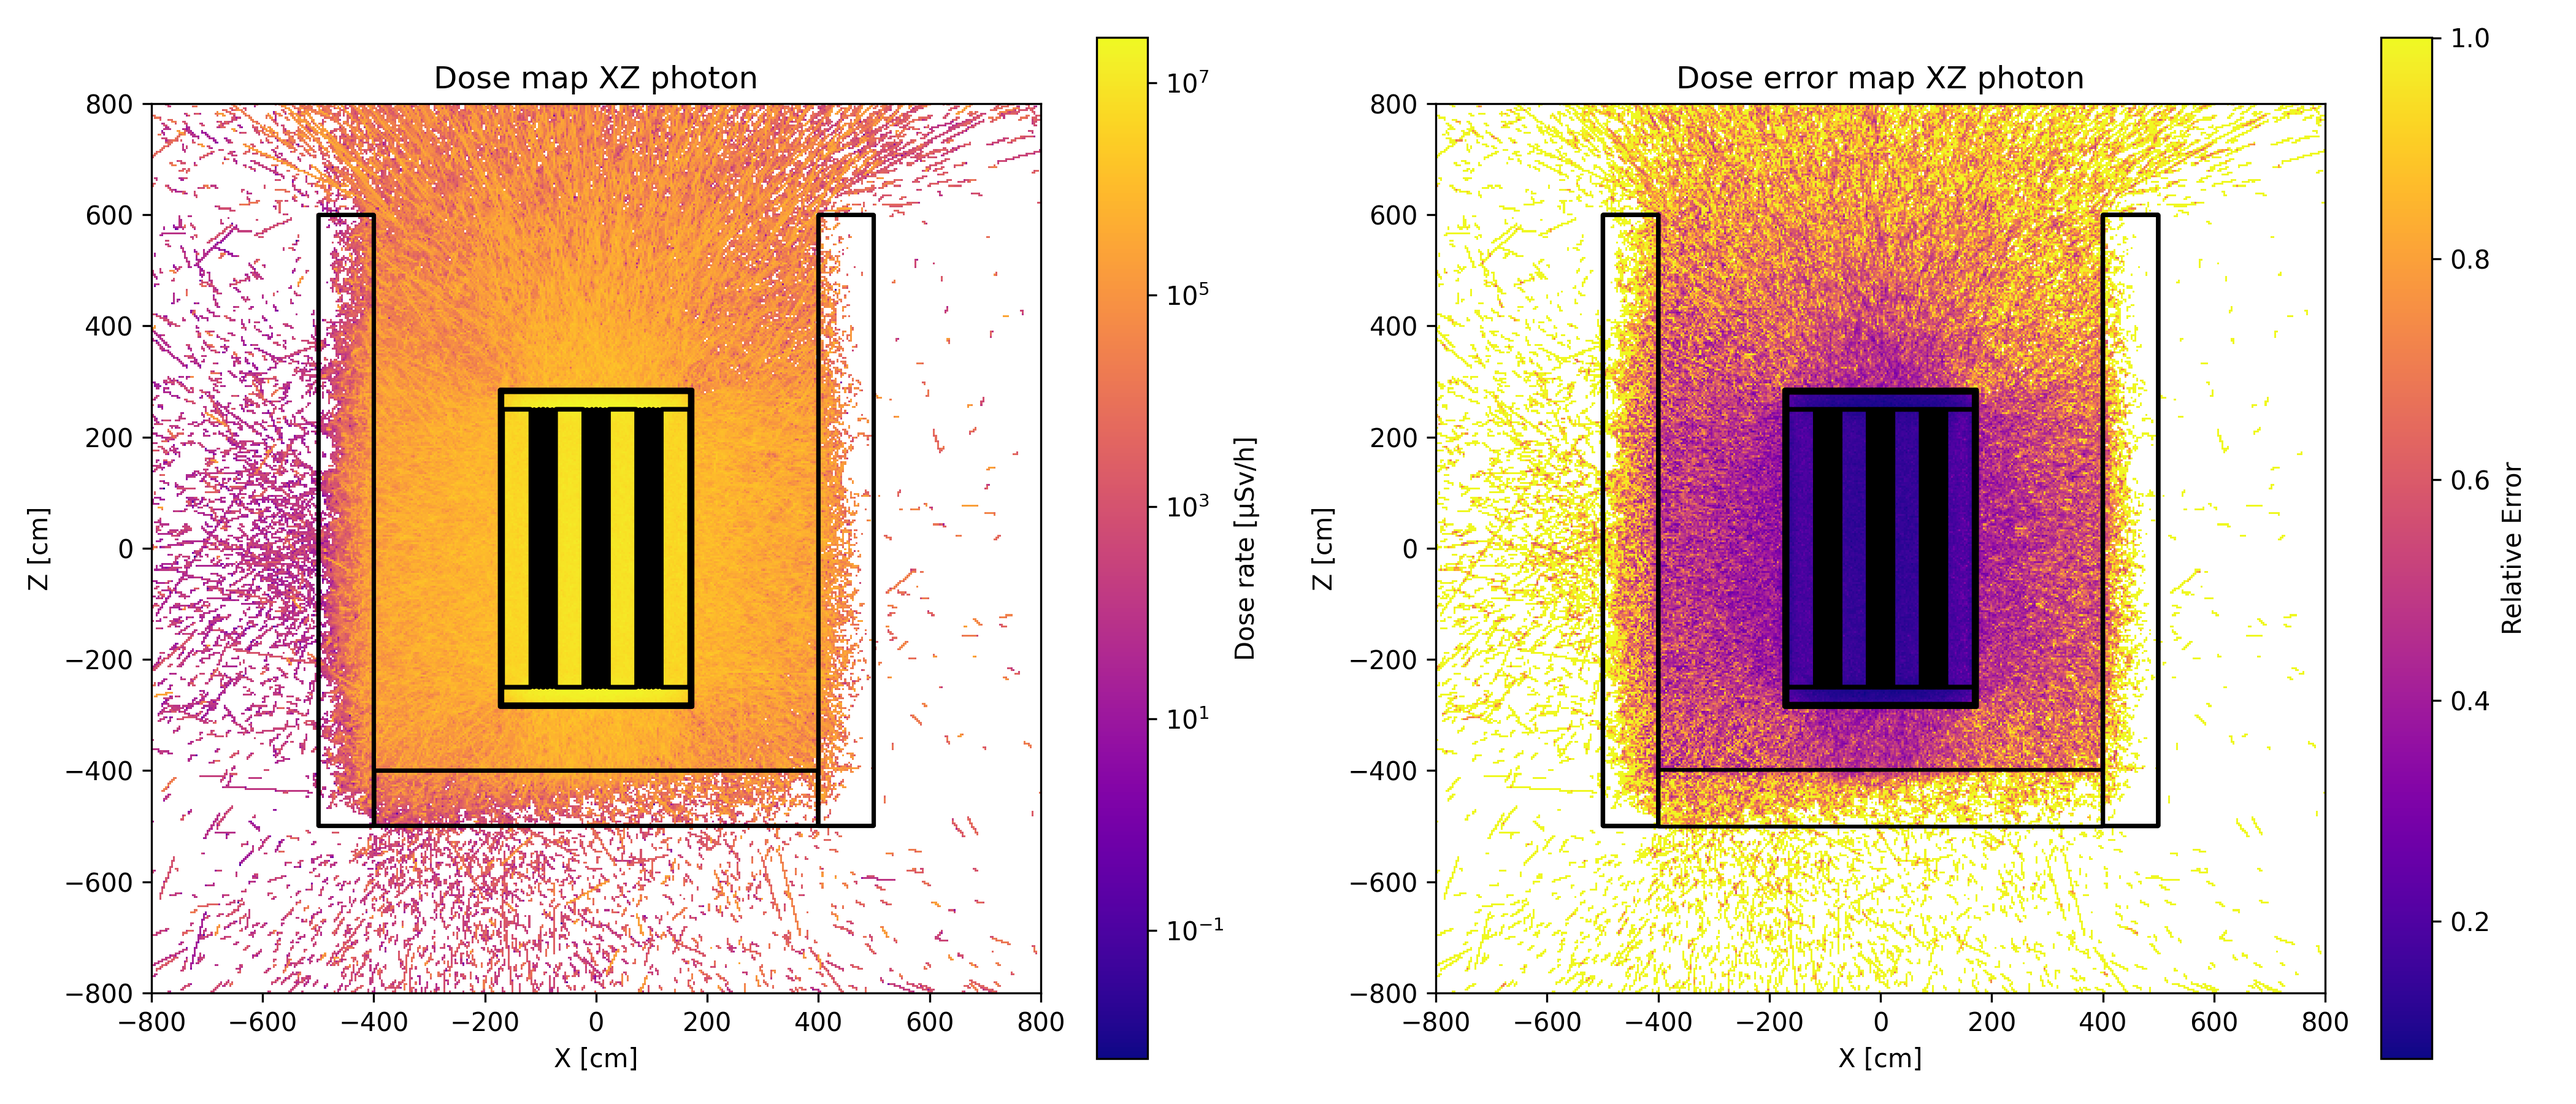
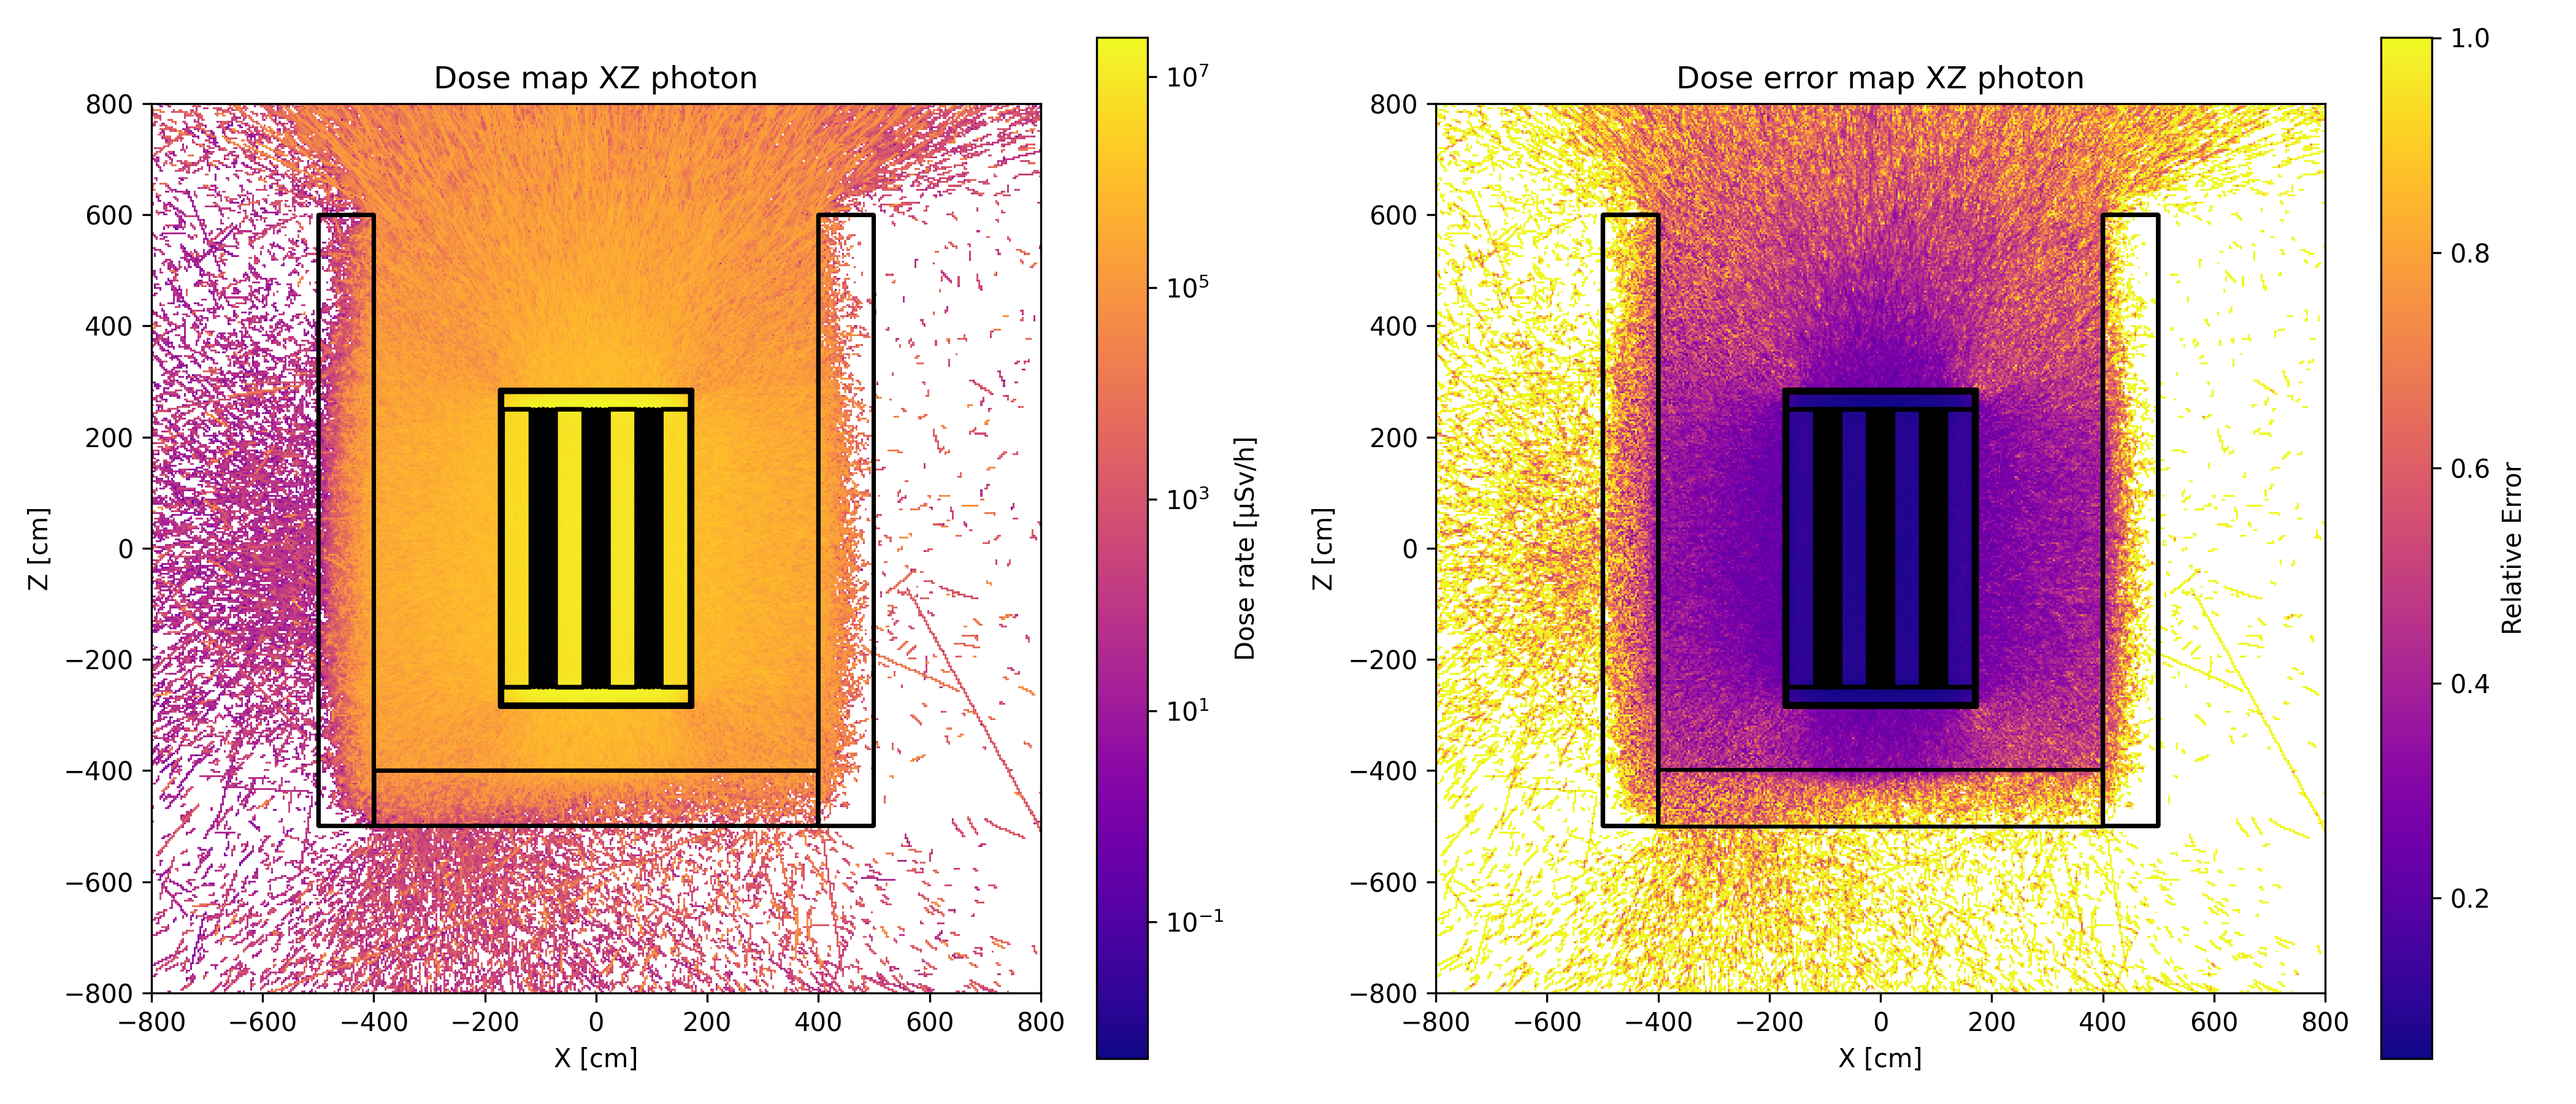
feat:put_dose_geom_method

diff --git a/src/utils/post_preocessing/post_processing.py b/src/utils/post_preocessing/post_processing.py
@@ -528,26 +528,21 @@ class Pulse_height_tally:
 class mesh_tally_data:
     def __init__(self, statepoint, name_mesh_tally, plane):
         self.mesh_tally = statepoint.get_tally(name=name_mesh_tally)
-        self.plane = plane
+        self.plane = plane.lower()
         self.bin_number = np.sqrt(self.mesh_tally.num_bins).astype(int)
-        if plane.lower() == "xy":
-            mesh_filter = self.mesh_tally.find_filter(openmc.MeshFilter)
-            mesh = mesh_filter.mesh
-            self.lower_left = mesh.lower_left[:-1]
-            self.upper_right = mesh.upper_right[:-1]
-        elif plane.lower() == "xz":
-            mesh_filter = self.mesh_tally.find_filter(openmc.MeshFilter)
-            mesh = mesh_filter.mesh
-            self.lower_left = (mesh.lower_left[0], mesh.lower_left[2])
-            self.upper_right = (mesh.upper_right[0], mesh.upper_right[2])
-        elif plane.lower() == "yz":
-            mesh_filter = self.mesh_tally.find_filter(openmc.MeshFilter)
-            mesh = mesh_filter.mesh
-            self.lower_left = (mesh.lower_left[1], mesh.lower_left[2])
-            self.upper_right = (mesh.upper_right[1], mesh.upper_right[2])
+        self.mesh = self.mesh_tally.find_filter(openmc.MeshFilter).mesh
+        if self.plane == "xy":
+            self.lower_left = self.mesh.lower_left[:-1]
+            self.upper_right = self.mesh.upper_right[:-1]
+        elif self.plane == "xz":
+            self.lower_left = (self.mesh.lower_left[0], self.mesh.lower_left[2])
+            self.upper_right = (self.mesh.upper_right[0], self.mesh.upper_right[2])
+        elif self.plane == "yz":
+            self.lower_left = (self.mesh.lower_left[1], self.mesh.lower_left[2])
+            self.upper_right = (self.mesh.upper_right[1], self.mesh.upper_right[2])
 
     @property
-    def get_coordinates(self):
+    def mesh_coordinates(self):
         """
         Generate coordinates for mesh bins.
         
@@ -571,12 +566,47 @@ class mesh_tally_data:
         return coords
     
     @property
-    def get_flux_data(self):
+    def mesh_tally_value(self):
         return self.mesh_tally.mean.reshape((self.bin_number, self.bin_number))
 
     @property
-    def get_flux_error(self):
+    def mesh_tally_error(self):
         return self.mesh_tally.std_dev.reshape((self.bin_number, self.bin_number))
+
+    @property
+    def voxel_volume(self,
+                     coord_value: float = 0.0,
+                     thickness: float = 1.0):
+        """
+        Get the volumes of the mesh bins in the specified plane.
+
+        Parameters:
+            plane (str): Plane to create the mesh in ('xy', 'xz', or 'yz').
+            bin_number (int): Number of bins in each direction.
+            lower_left (tuple): Lower left corner of the mesh (2D).
+            upper_right (tuple): Upper right corner of the mesh (2D).
+            coord_value (float): Coordinate value for the orthogonal axis.
+            thickness (float): Thickness along the orthogonal axis.
+
+        Returns:
+            np.ndarray: Array of volumes for each mesh bin.
+        """
+        mesh = openmc.RegularMesh()
+        if self.plane == "xy":
+            mesh.dimension = [self.bin_number, self.bin_number, 1]
+            mesh.lower_left = (self.lower_left[0], self.lower_left[1], coord_value - thickness / 2)
+            mesh.upper_right = (self.upper_right[0], self.upper_right[1], coord_value + thickness / 2)
+        elif self.plane == "xz":
+            mesh.dimension = [self.bin_number, 1, self.bin_number]
+            mesh.lower_left = (self.lower_left[0], coord_value - thickness / 2, self.lower_left[1])
+            mesh.upper_right = (self.upper_right[0], coord_value + thickness / 2, self.upper_right[1])
+        elif self.plane == "yz":
+            mesh.dimension = [1, self.bin_number, self.bin_number]
+            mesh.lower_left = (coord_value - thickness / 2, self.lower_left[0], self.lower_left[1])
+            mesh.upper_right = (coord_value + thickness / 2, self.upper_right[0], self.upper_right[1])
+        else:
+            raise ValueError("plane must be 'xy', 'xz', or 'yz'")
+        return mesh.volumes[0][0][0]
 
     def plot_flux(self, 
                   axis_one_index=None, 
@@ -588,8 +618,8 @@ class mesh_tally_data:
                   fig_name:str="flux_plot.png"):
 
         if x_lim is None:
-            x_lim = (self.get_coordinates[0][0], self.get_coordinates[0][-1])
-        coords = self.get_coordinates
+            x_lim = (self.mesh_coordinates[0][0], self.mesh_coordinates[0][-1])
+        coords = self.mesh_coordinates
         plane = self.plane
 
         if (geometrical_limit[0][0] is not None and geometrical_limit[0][1] is not None):
@@ -599,7 +629,7 @@ class mesh_tally_data:
 
 
         if axis_one_index is not None:
-            plt.errorbar(coords[0], self.get_flux_data[:, axis_one_index], yerr= self.get_flux_error[:, axis_one_index],
+            plt.errorbar(coords[0], self.mesh_tally_value[:, axis_one_index], yerr= self.mesh_tally_error[:, axis_one_index],
                  fmt='o-', color='blue', ecolor='red', capsize=3, markersize=2,
                  label='Flux values')
             plt.xlabel(f'{plane[1].upper()} [cm]')
@@ -622,7 +652,7 @@ class mesh_tally_data:
             plt.show()
 
         if axis_two_index is not None:
-            plt.errorbar(coords[0], self.get_flux_data[axis_two_index, :], yerr= self.get_flux_error[axis_two_index, :],
+            plt.errorbar(coords[0], self.mesh_tally_value[axis_two_index, :], yerr= self.mesh_tally_error[axis_two_index, :],
                  fmt='o-', color='blue', ecolor='red', capsize=3, markersize=2,
                  label='Flux values')
             plt.xlabel(f'{plane[0].upper()} [cm]')
@@ -658,14 +688,14 @@ class mesh_tally_data:
                   geometrical_limit: tuple = [(None, None)],
                   log_scale: bool = True):
         if x_lim is None:
-            x_lim = (self.get_coordinates[0][0], self.get_coordinates[0][-1])
+            x_lim = (self.mesh_coordinates[0][0], self.mesh_coordinates[0][-1])
         if y_lim is None:
             y_lim = (0.1, None)
-        coords = self.get_coordinates
+        coords = self.mesh_coordinates
         plane = self.plane
 
-        dose_data = self.get_flux_data * particles_per_second * 1e-6 * 3600 / mesh_bin_volume
-        dose_error = self.get_flux_error * particles_per_second * 1e-6 * 3600 / mesh_bin_volume
+        dose_data = self.mesh_tally_value * particles_per_second * 1e-6 * 3600 / mesh_bin_volume
+        dose_error = self.mesh_tally_error * particles_per_second * 1e-6 * 3600 / mesh_bin_volume
 
         def plot_radiological_areas():
             for i in range(len(DOSE_AREAS_LIMIT) - 1):
@@ -738,6 +768,109 @@ class mesh_tally_data:
             f'Dose {particule_type} = f({plane[0].upper()}) at {plane[1].lower()}={coords[1][axis_two_index]:.2f} cm',
             )
 
+    def dose_over_geometry(self, model,
+                        cwd: Path = Path.cwd(), 
+                        name_mesh_tally:str = "flux_mesh_neutrons_dose_xy", 
+                        particule_type:str='neutrons',
+                        particles_per_second:int=1,
+                        plane_coord:float=0.0,
+                        zoom_x:tuple=(None, None),
+                        zoom_y:tuple=(None, None),
+                        pixels_model_geometry:int=1_000_000,
+                        radiological_area: bool = False,
+                        suffix_saving: str = "",
+                        color_by: str = "material",
+                        saving_figure:bool = True,
+                        plot_error:bool=False,
+                        dpi: int = 300):
+        """
+        Load and plot the dose mesh tally from the statepoint file.
+
+        Parameters:
+        - cwd: Path or directory where the mesh tally image will be saved.
+        - statepoint_file: The OpenMC statepoint file object containing the tally data.
+        - name_mesh_tally_saving: Name of the tally (default is "mesh_tally.png").
+        - bin_number: Number of bins for the mesh tally in each dimension (default is 400).
+        - lower_left: Tuple specifying the lower left corner of the mesh (default is (-10.0, -10.0)).
+        - upper_right: Tuple specifying the upper right corner of the mesh (default is (10.0, 10.0)).
+        - zoom_x: Tuple specifying the x-axis limits for zooming (default is (-10, 10)).
+        - zoom_y: Tuple specifying the y-axis limits for zooming (default is (-10.0, 10.0)).
+
+        This function extracts the dose mesh tally from the statepoint file, reshapes the data,
+        and plots it using matplotlib with a logarithmic color scale. The resulting plot
+        is saved as a PNG file in the specified directory and displayed.
+        """
+        if self.plane not in ["xy", "xz", "yz"]:
+            raise ValueError("plane must be 'xy', 'xz', or 'yz'")
+
+        if zoom_x == (None, None):
+            zoom_x = (self.lower_left[0], self.upper_right[0])
+        if zoom_y == (None, None):
+            zoom_y = (self.lower_left[1], self.upper_right[1])
+
+        flux_data = self.mesh_tally_value * particles_per_second * 1e-6 * 3600 / self.voxel_volume  # Convert to dose rate from pSv/s to µSv/h per mesh bin volume
+        nonzero_flux = flux_data != 0
+        # relative_error[nonzero_flux] = flux_error[nonzero_flux]
+        flux_error = self.mesh_tally_error.reshape((self.bin_number, self.bin_number))
+        flux_error = (flux_error * particles_per_second * 1e-6 * 3600 / self.voxel_volume) / flux_data
+        relative_error = flux_error
+
+        mesh = self.mesh
+        extent = mesh.bounding_box.extent[self.plane]
+        # Common settings for model.plot
+        plot_kwargs = {
+            'outline': "only",
+            'basis': self.plane,
+            'axes': None,  # This will be set per-plot
+            'pixels': pixels_model_geometry,
+            'color_by': color_by,
+            'origin': ((self.lower_left[0] + self.upper_right[0]) / 2, (self.lower_left[1] + self.upper_right[1]) / 2, plane_coord),    
+            'width': (self.upper_right[0] - self.lower_left[0], self.upper_right[1] - self.lower_left[1])
+        }
+        def setup_ax(ax, title):
+            ax.set_title(title)
+            ax.set_xlabel(f'{self.plane[0].upper()} [cm]')
+            ax.set_ylabel(f'{self.plane[1].upper()} [cm]')
+            ax.set_xlim(zoom_x)
+            ax.set_ylim(zoom_y)
+        if radiological_area:
+            cmap = ListedColormap(AREAS_COLORS)
+            norm = BoundaryNorm(DOSE_AREAS_LIMIT, ncolors=len(AREAS_COLORS))
+            label_flux = "Radiological area"
+        else :
+            cmap = 'plasma'
+            norm = LogNorm(vmin=np.min(flux_data[nonzero_flux]), vmax=flux_data.max())
+            label_flux = "Dose rate [µSv/h]"
+        if plot_error:
+            fig, (ax_flux, ax_error) = plt.subplots(1, 2, figsize=(14, 6))
+
+            # Plot flux data
+            im_flux = ax_flux.imshow(flux_data, origin='lower', extent=extent, cmap=cmap, norm=norm)
+            plot_kwargs['axes'] = ax_flux
+            model.plot(**plot_kwargs)
+            setup_ax(ax_flux, f"Dose map {self.plane.upper()} {particule_type}")
+            fig.colorbar(im_flux, ax=ax_flux, label=label_flux)
+
+            # Plot relative error
+            im_error = ax_error.imshow(relative_error, origin='lower', extent=extent, cmap='plasma')
+            plot_kwargs['axes'] = ax_error
+            model.plot(**plot_kwargs)
+            setup_ax(ax_error, f"Dose error map {self.plane.upper()} {particule_type}")
+            fig.colorbar(im_error, ax=ax_error, label="Relative Error")
+        else:
+            fig, ax = plt.subplots(figsize=(8, 6))
+
+            # Plot flux data
+            im_flux = ax.imshow(flux_data, origin='lower', extent=extent, cmap=cmap, norm=norm)
+            plot_kwargs['axes'] = ax
+            model.plot(**plot_kwargs)
+            setup_ax(ax, f"Dose map {self.plane.upper()} {particule_type}")
+            fig.colorbar(im_flux, ax=ax, label=label_flux)
+        plt.tight_layout()
+        name_mesh_tally_saving = f"{name_mesh_tally}{suffix_saving}.png"
+        if saving_figure:
+            plt.savefig(cwd / name_mesh_tally_saving, dpi=dpi)
+        plt.show()
 
 def flux_over_geometry(model, statepoint_file: object,
                     cwd: Path = Path.cwd(), 

diff --git a/src/studies/reactor_study/class_model/stop_24h/02_with_ww/02_ww_using/03_100cm/post.py b/src/studies/reactor_study/class_model/stop_24h/02_with_ww/02_ww_using/03_100cm/post.py
@@ -22,7 +22,7 @@ os.environ["OPENMC_CROSS_SECTIONS"] = PATH_TO_CROSS_SECTIONS
 
 material_dict["FUEL_UO2_MATERIAL"].remove_element("U")
 
-statepoint = openmc.StatePoint(f"statepoint.090.h5")
+statepoint = openmc.StatePoint(f"statepoint.200.h5")
 
 bin_mesh_volume = get_mesh_volumes(lower_left=(-850.0, -850.0), upper_right=(850.0, 850.0), thickness=20.0, bin_number=500)
 photons_per_s = 2.5e15
@@ -79,3 +79,6 @@ mesh_tally_photons.plot_dose(axis_two_index=250,
                              radiological_area=True,
                              geometrical_limit=[(-400, 'Concrete wall start'), (-500, 'Concrete wall end')],
                              fig_name="dose_plot_photons.png")
+mesh_tally_photons.dose_over_geometry(model=MODEL, name_mesh_tally="flux_mesh_photons_xy", 
+                saving_figure=True, plot_error=True, particule_type="photon",
+                particles_per_second=photons_per_s, radiological_area=True)   
